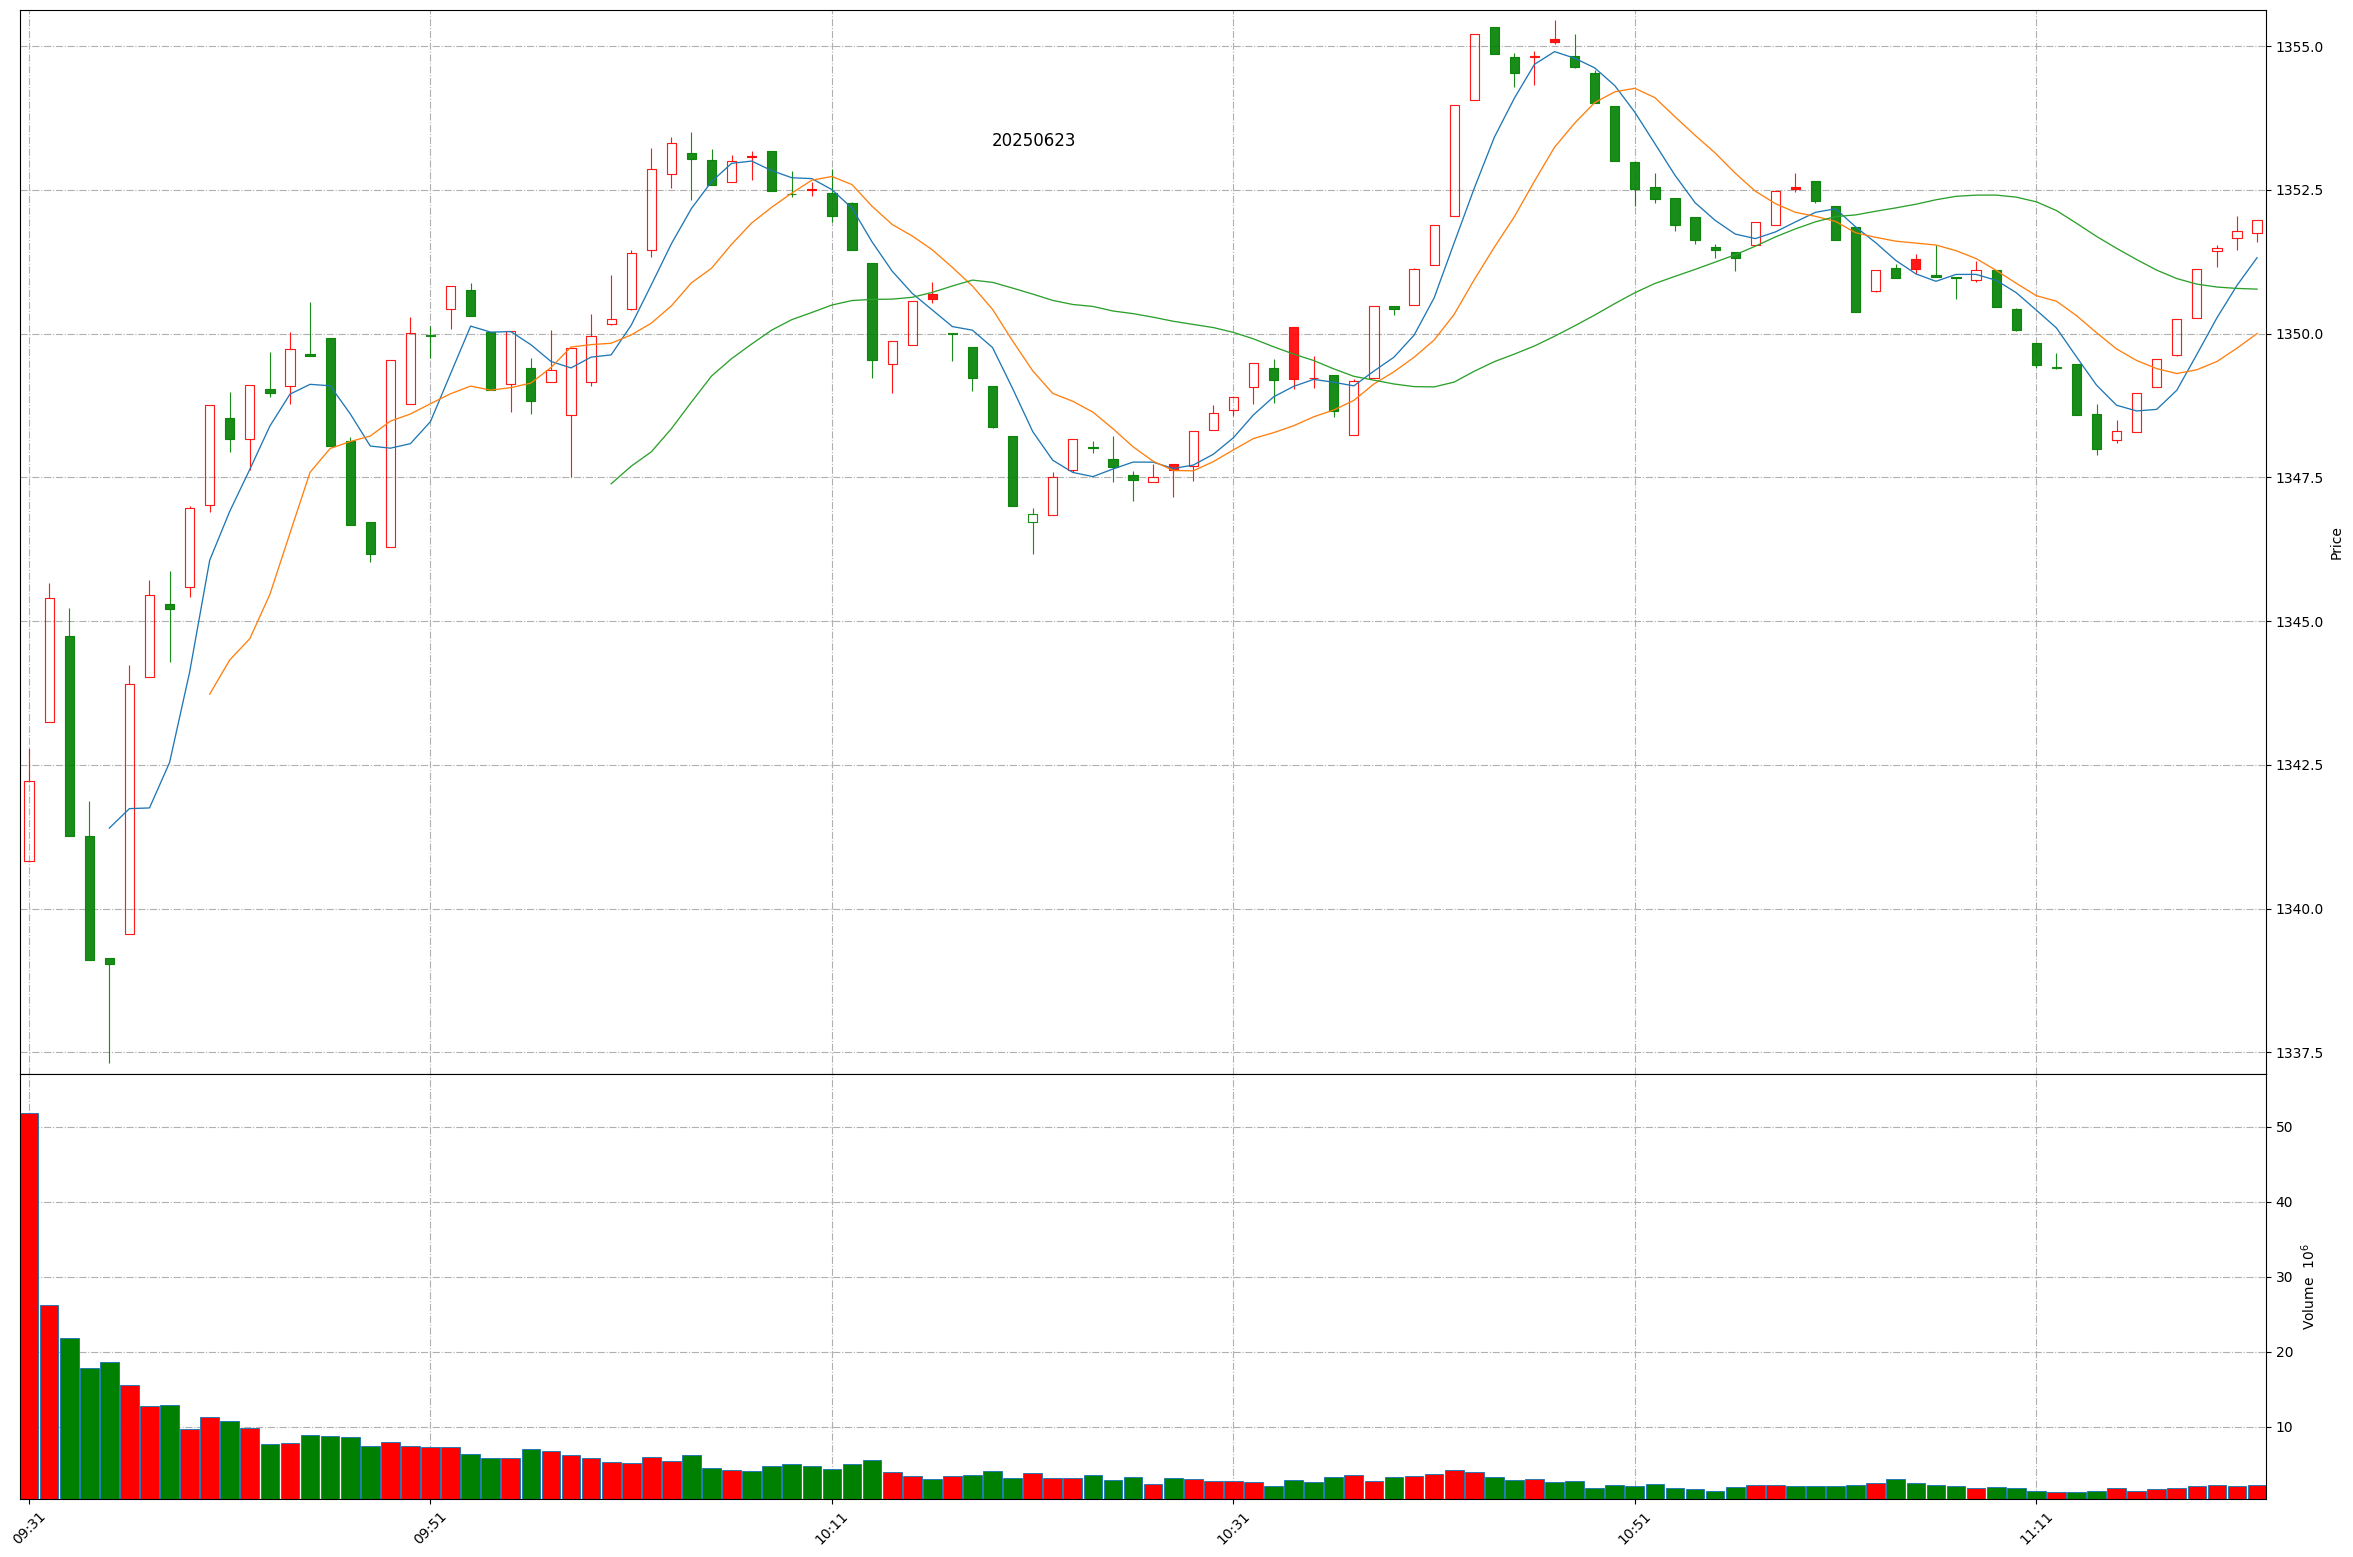
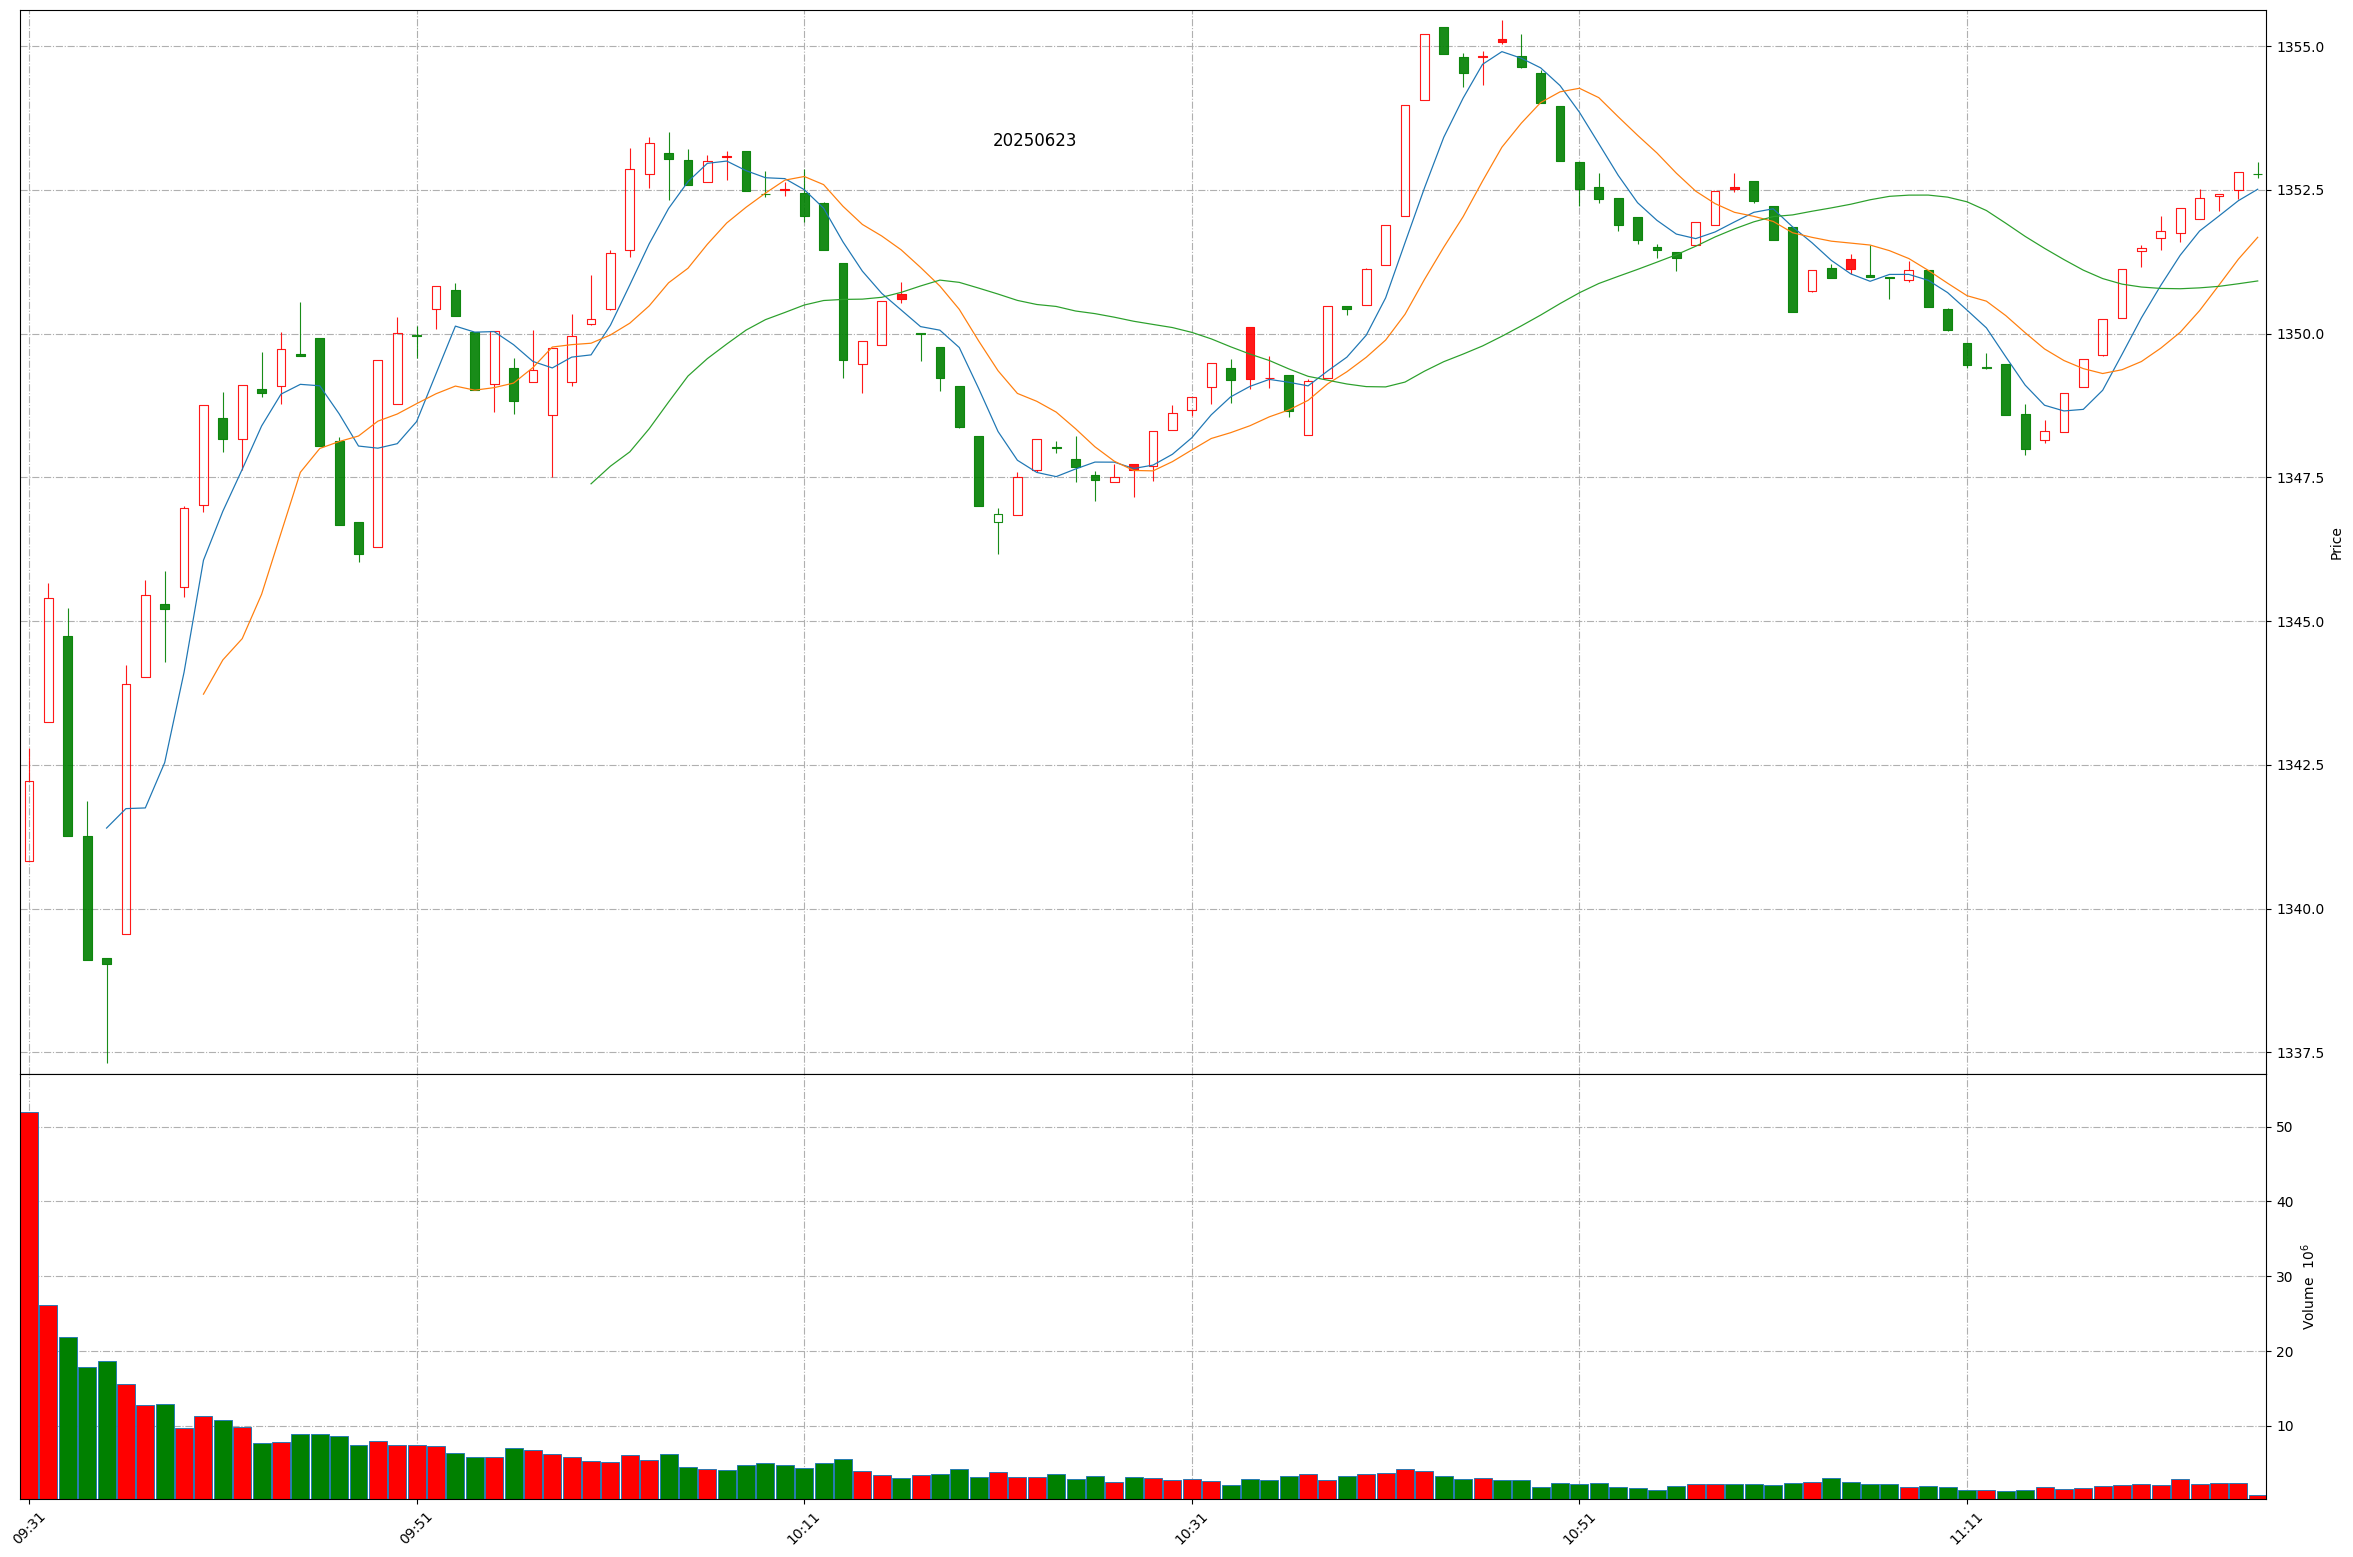
Github action update at 2025-06-23 11:25:26.

diff --git a/README.md b/README.md
@@ -1,11 +1,11 @@
 
 # Daily-A-share-market-quotes 每日 A 股指数（5min 更新）- 20250623
 
-### 上证指数 20250623 11:21
+### 上证指数 20250623 11:25
 ![](./fig/2025/6/20250623-sh000001.png)
 
-### 深证成指 20250623 11:21
+### 深证成指 20250623 11:25
 ![](./fig/2025/6/20250623-sz399001.png)
 
-### 北证50 20250623 11:21
+### 北证50 20250623 11:25
 ![](./fig/2025/6/20250623-bj899050.png)
